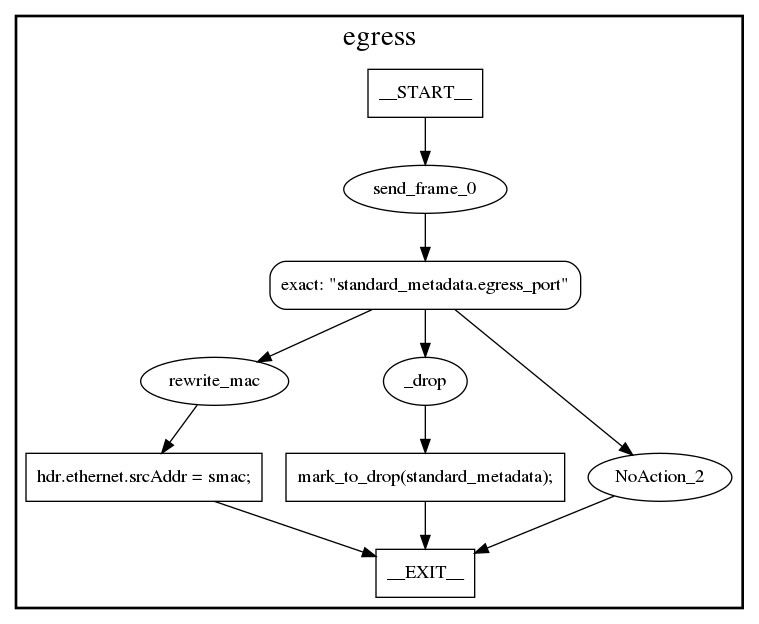
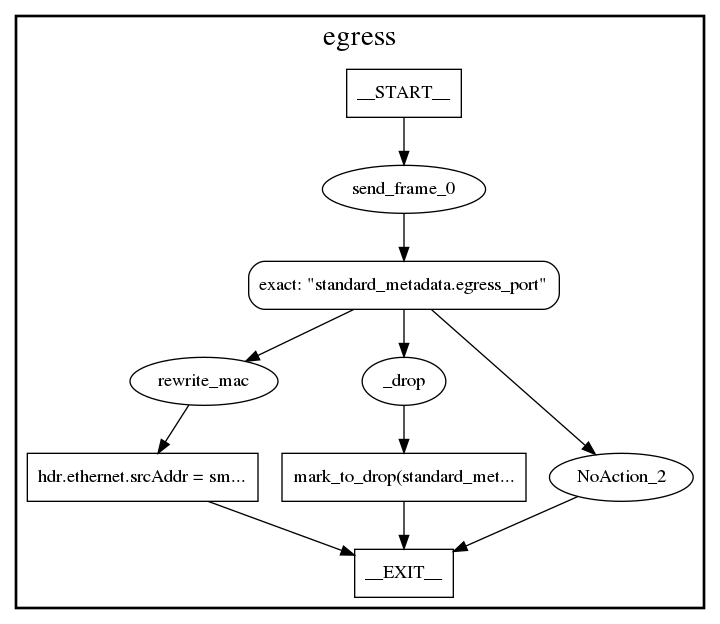
line width limited for nodes, added program name to json output, fixed build errors

diff --git a/backends/graphs/graphs.cpp b/backends/graphs/graphs.cpp
@@ -48,19 +48,36 @@ void Graphs::add_edge(const vertex_t &from, const vertex_t &to, const cstring &n
     attrs[ep.first]["lhead"] = "cluster"+Util::toString(cluster_id-1);
 }
 
+void Graphs::limitStringSize(std::stringstream &sstream, std::stringstream &helper_sstream){
+    if (helper_sstream.str().size() > 25) {
+        sstream << helper_sstream.str().substr(0, 25) << "...";
+    } else {
+        sstream << helper_sstream.str();
+    }
+    helper_sstream.str("");
+    helper_sstream.clear();
+}
+
 boost::optional<Graphs::vertex_t> Graphs::merge_other_statements_into_vertex() {
     if (statementsStack.empty()) return boost::none;
     std::stringstream sstream;
+    std::stringstream helper_sstream;  // to limit line width
+
     if (statementsStack.size() == 1) {
-        statementsStack[0]->dbprint(sstream);
+        statementsStack[0]->dbprint(helper_sstream);
+        limitStringSize(sstream, helper_sstream);
     } else if (statementsStack.size() == 2) {
-        statementsStack[0]->dbprint(sstream);
-        sstream << "\n";
-        statementsStack[1]->dbprint(sstream);
+        statementsStack[0]->dbprint(helper_sstream);
+        limitStringSize(sstream, helper_sstream);
+        sstream << "\\n";
+        statementsStack[1]->dbprint(helper_sstream);
+        limitStringSize(sstream, helper_sstream);
     } else {
-        statementsStack[0]->dbprint(sstream);
-        sstream << "\n...\n";
-        statementsStack.back()->dbprint(sstream);
+        statementsStack[0]->dbprint(helper_sstream);
+        limitStringSize(sstream, helper_sstream);
+        sstream << "\\n...\\n";
+        statementsStack.back()->dbprint(helper_sstream);
+        limitStringSize(sstream, helper_sstream);
     }
     auto v = add_vertex(cstring(sstream), VertexType::STATEMENTS);
     for (auto parent : parents)

diff --git a/backends/graphs/graph_visitor.h b/backends/graphs/graph_visitor.h
@@ -71,9 +71,11 @@ class Graph_visitor : public Graphs {
      * @param jsonOut option to create json fullGraph
      */
     Graph_visitor(const cstring &graphsDir, const bool &graphs,
-                  const bool &fullGraph, const bool &jsonOut) :
+                  const bool &fullGraph, const bool &jsonOut,
+                  const cstring &filename) :
             graphsDir(graphsDir), graphs(graphs),
-            fullGraph(fullGraph), jsonOut(jsonOut) {}
+            fullGraph(fullGraph), jsonOut(jsonOut),
+            filename(filename) {}
     /** 
      * @brief Maps VertexType to string
      * @param v_type VertexType to map
@@ -132,6 +134,7 @@ class Graph_visitor : public Graphs {
     const bool &fullGraph;  // merge boost graphs into one CFG, and output to file
     const bool &jsonOut;  // iterate over boost graphs, and create json representation of these
                           // graphs
+    const cstring filename;
 };
 
 }  // namespace graphs

diff --git a/backends/graphs/graph_visitor.cpp b/backends/graphs/graph_visitor.cpp
@@ -14,8 +14,10 @@
  * limitations under the License.
  */
 
-#include "graphs.h"
 #include "graph_visitor.h"
+
+#include "graphs.h"
+#include "lib/path.h"
 
 namespace graphs {
 
@@ -199,7 +201,16 @@ void Graph_visitor::process(std::vector<Graph *> &controlGraphsArray,
 
     if (jsonOut) {
         json = new Util::JsonObject();
-        json->emplace("name", "program");
+
+        // remove '.p4' and path from program name
+        auto file_without_p4 = (filename.findlast('.') == nullptr) ? filename :
+                            filename.before(filename.findlast('.'));
+        const char* file_without_path = file_without_p4;
+        if (file_without_p4.findlast('/') != nullptr) {
+            file_without_path = file_without_p4.findlast('/') + 1;  // char* without '/'
+        }
+
+        json->emplace("name", file_without_path);
         programBlocks = new Util::JsonArray();
         json->emplace("nodes", programBlocks);
 

diff --git a/backends/graphs/graphs.h b/backends/graphs/graphs.h
@@ -216,6 +216,14 @@ class Graphs : public Inspector {
     vertex_t exit_v{};
     Parents parents{};
     std::vector<const IR::Statement *> statementsStack{};
+
+ private:
+    /**
+     * @brief Limits string size in helper_sstream and resets it
+     * @param[out] sstream stringstream where trimmed string is stored
+     * @param helper_sstream contains string, which will be trimmed
+     */
+    void limitStringSize(std::stringstream &sstream, std::stringstream &helper_sstream);
 };
 
 }  // namespace graphs

diff --git a/backends/graphs/p4c-graphs.cpp b/backends/graphs/p4c-graphs.cpp
@@ -179,7 +179,7 @@ int main(int argc, char *const argv[]) {
     program->apply(pgg);
 
     graphs::Graph_visitor gvs(options.graphsDir, options.graphs, options.fullGraph,
-                              options.jsonOut);
+                              options.jsonOut, options.file);
 
     gvs.process(cgen.controlGraphsArray, pgg.parserGraphsArray);
 

diff --git a/backends/graphs/controls.cpp b/backends/graphs/controls.cpp
@@ -24,7 +24,6 @@ limitations under the License.
 #include "frontends/p4/tableApply.h"
 #include "lib/log.h"
 #include "lib/nullstream.h"
-#include "lib/path.h"
 #include "controls.h"
 
 namespace graphs {

diff --git a/backends/graphs/README.md b/backends/graphs/README.md
@@ -34,7 +34,7 @@ Output in json format is an object with fields:
 
 - `info` (object)
 
-    - `name` - Filename of P4 program (for now just a placeholder value).
+    - `name` - Filename of P4 program.
     
 - `nodes` (array) - Contains objects, representing program blocks.
 
